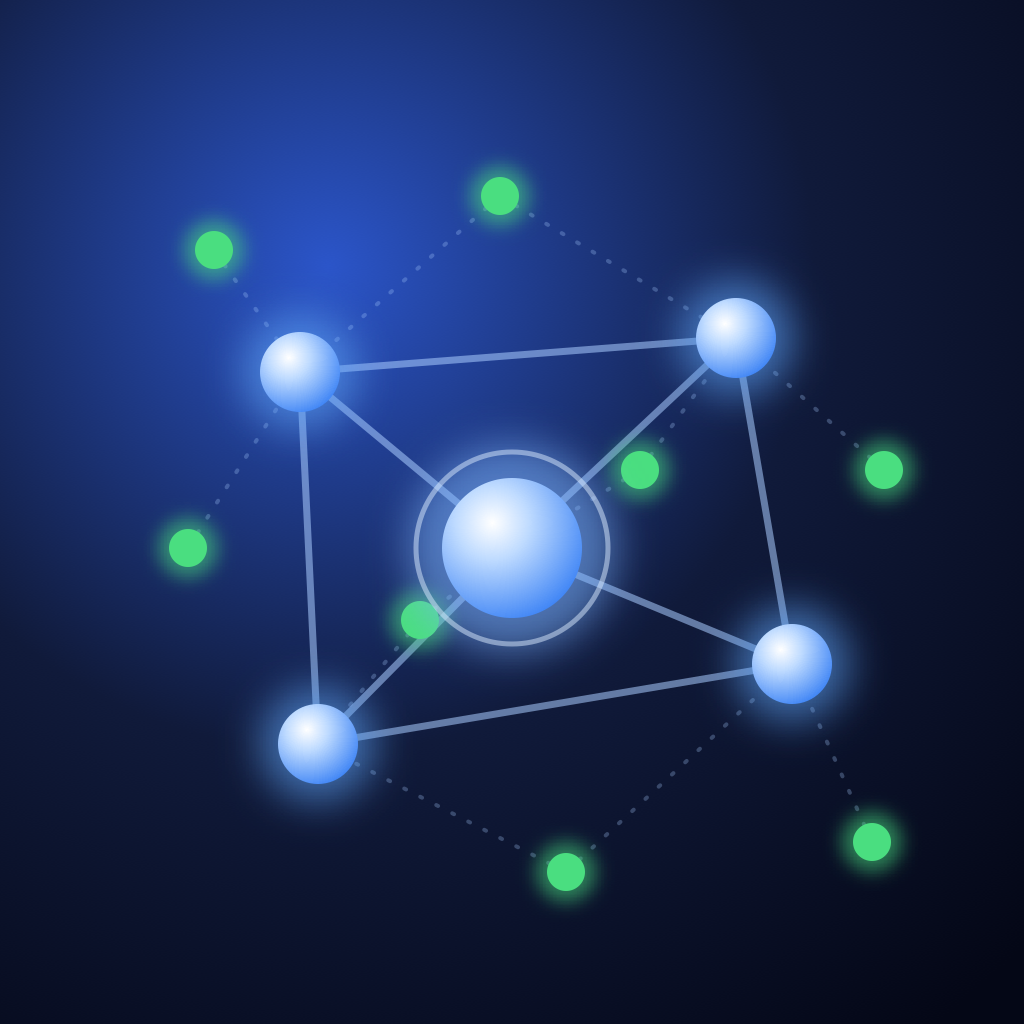
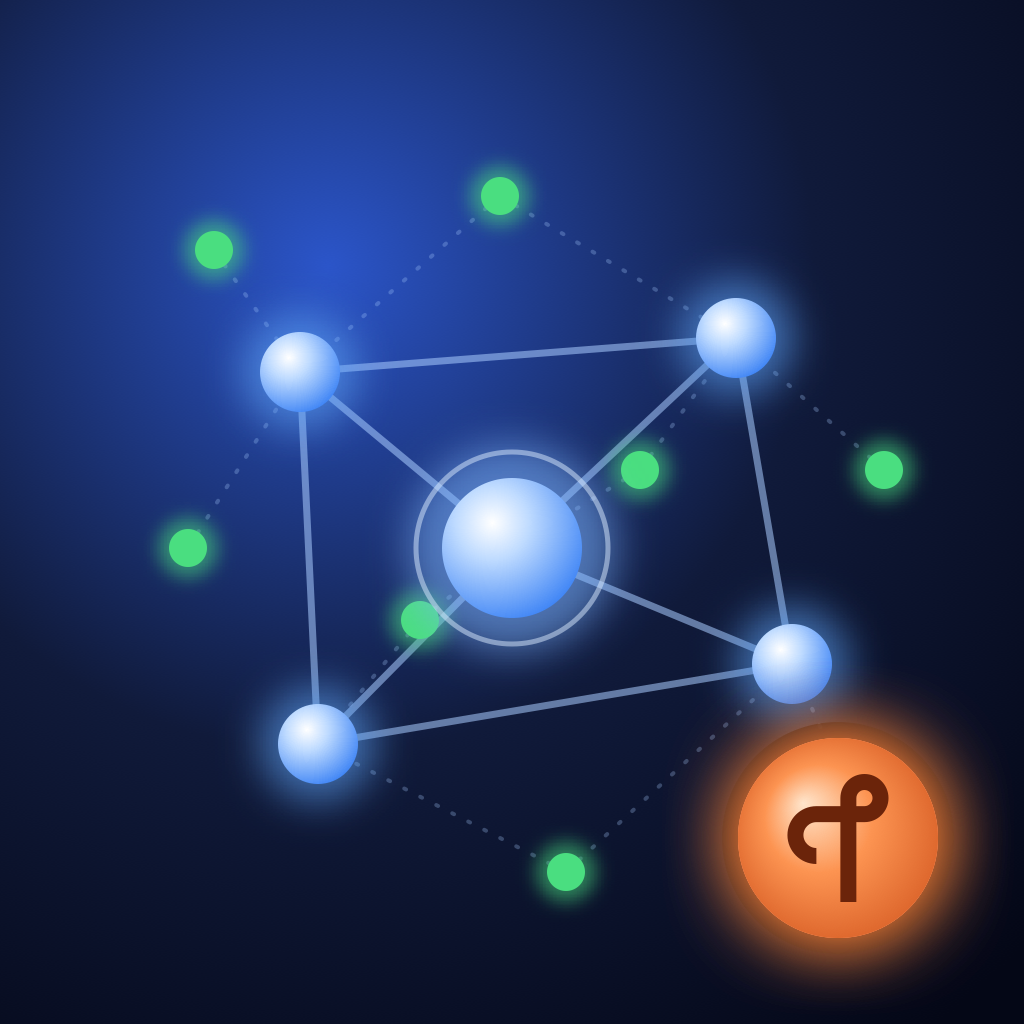
Ajouter le badge Thread a l'icone de l'app
La constellation garde sa place ; en bas a droite, sur l'appareil du
coin, une sphere orange brillante avec halo porte le symbole de Thread en
teinte foncee, dans la direction artistique des noeuds de l'icone, comme
le badge Zigbee de Maillage Zigbee (choix de Djoko, variante C, 08/10).
Credits des README etendus a l'icone de l'app.

Changed region(s): [[0.6562, 0.6562, 0.9688, 0.9688]]

diff --git a/README.md b/README.md
@@ -62,8 +62,9 @@ open it, and drag **Maillage Thread** onto **Applications**. macOS 26 or later.
 The app embeds [Sparkle](https://sparkle-project.org) 2.10.0 (automatic updates), under the MIT
 license; the text of the license is shipped in the `.dmg`, next to the app (`Sparkle-LICENSE.txt`).
 
-The Thread symbol of the menu bar icon is traced from the Thread Group logo (Wikimedia Commons,
-`Thread_Group_wordmark.svg`, public domain); Thread is a trademark of the Thread Group.
+The Thread symbol of the menu bar icon and of the app icon's badge is traced from the Thread Group
+logo (Wikimedia Commons, `Thread_Group_wordmark.svg`, public domain); Thread is a trademark of the
+Thread Group.
 
 ## What the Mac can see
 

diff --git a/README.fr.md b/README.fr.md
@@ -65,8 +65,9 @@ plus.
 L'app embarque [Sparkle](https://sparkle-project.org) 2.10.0 (les mises à jour automatiques), sous
 licence MIT ; le texte de la licence est livré dans le `.dmg`, à côté de l'app (`Sparkle-LICENSE.txt`).
 
-Le symbole de Thread de l'icône de la barre des menus est tracé d'après le logo du Thread Group
-(Wikimedia Commons, `Thread_Group_wordmark.svg`, domaine public) ; Thread est une marque du Thread Group.
+Le symbole de Thread de l'icône de la barre des menus et du badge de l'icône de l'app est tracé
+d'après le logo du Thread Group (Wikimedia Commons, `Thread_Group_wordmark.svg`, domaine public) ;
+Thread est une marque du Thread Group.
 
 ## Ce que le Mac peut voir
 
